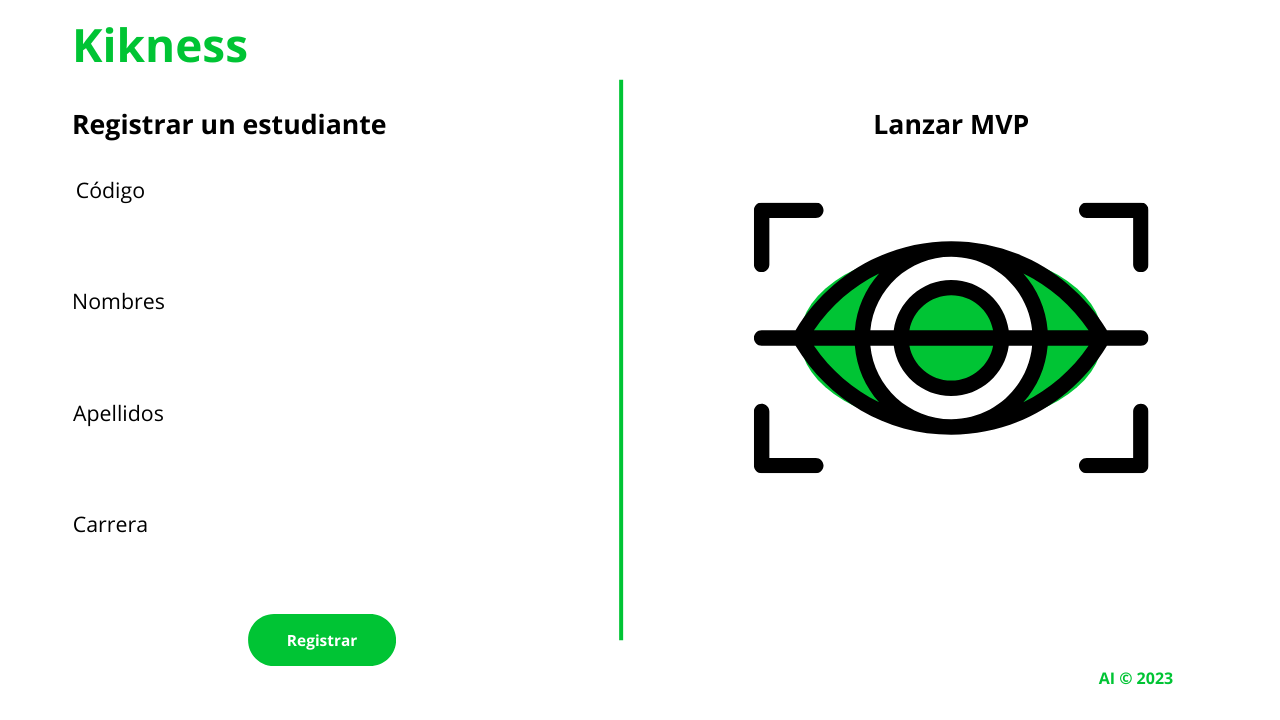
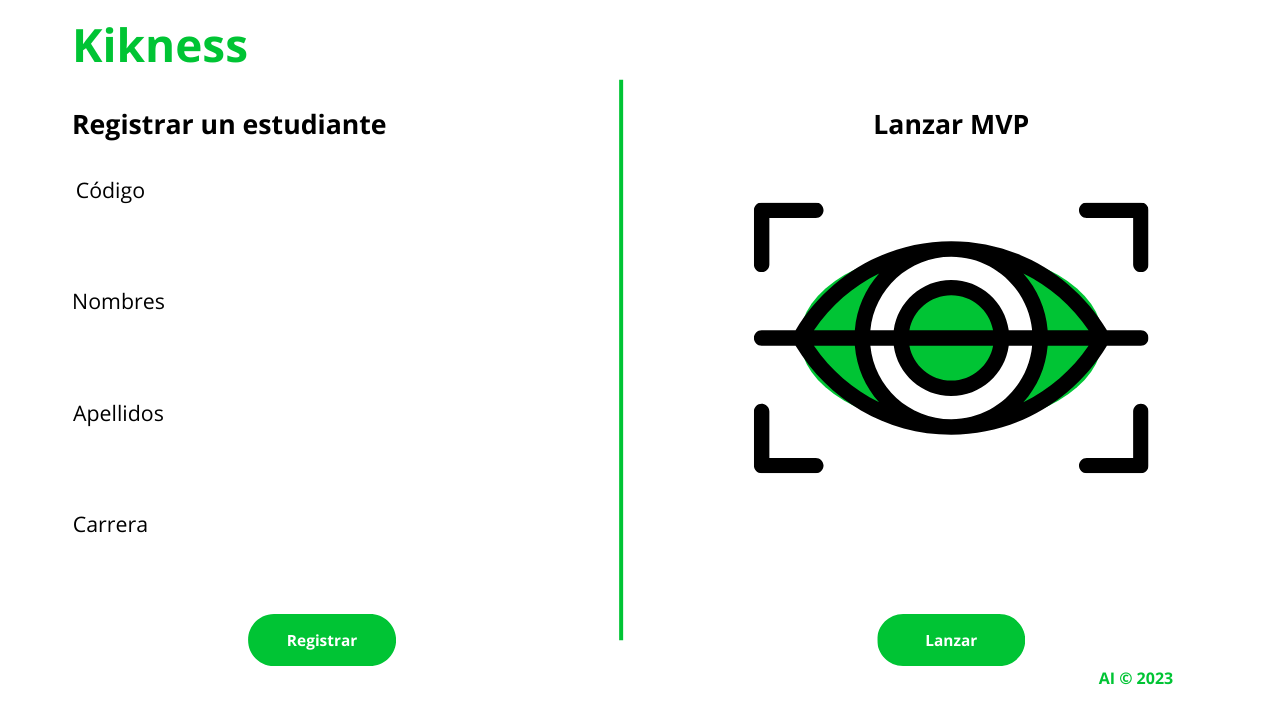
register student complete

Changed region(s): [[0.6875, 0.8556, 0.8125, 0.9472]]

diff --git a/main.py b/main.py
@@ -5,13 +5,273 @@ import mediapipe as mp
 import os
 from dotenv import load_dotenv
 from tkinter import *
+from tkinter import messagebox
 from PIL import Image, ImageTk
 import imutils
 import math
+import re
+
+
+def closeWindow():
+    global step, conteo
+    step = 0
+    conteo = 0
+    pantalla2.destroy()
+
 
 # Funcion LOG
-def Log():
-    print("Hola")
+def createEstudiante():
+    # Agregar un regex para validar el codigo de estudiante
+    global cod_estudiante, nom_estudiante, ape_estudiante, carrera, cap, lblVideo, pantalla2
+    cod_estudiante = input_cod_estudiante_reg.get()
+    nom_estudiante = input_nom_estudiante_reg.get()
+    ape_estudiante = input_ape_estudiante_reg.get()
+    carrera = opcion_seleccionada.get()
+
+    vacio = [len(cod_estudiante), len(nom_estudiante), len(ape_estudiante), len(carrera)]
+
+    if 0 in vacio:
+        messagebox.showinfo("Alerta", "No pueden haber campos vacios")
+        return
+
+    regex = r'^U\d{8}$'
+    match = re.match(regex, cod_estudiante)
+
+    if match is None:
+        messagebox.showinfo("Alerta", "El codigo de estudiante no sigue la nomenclatura UXXXXXXXX")
+        return
+
+    estudiantes_registrados = os.listdir(PATH_USER_CHECK)
+
+    codigos_estudiantes = []
+
+    for estudiante in estudiantes_registrados:
+        estudiante = estudiante.split('.')
+        codigos_estudiantes.append(estudiante[0])  # Guardamos codigo
+
+    # Verificamos registro de estudiante
+    if cod_estudiante in codigos_estudiantes:
+        messagebox.showinfo("Alerta", "El usuario ha sido registrado anteriormente")
+        return
+
+    # Registramos al estudiante
+    info.append(cod_estudiante)
+    info.append(nom_estudiante)
+    info.append(ape_estudiante)
+    info.append(carrera)
+
+    # save, en un futuro manejalo como un json localmente, para la tesis esto ira en bd
+    try:
+        f = open(f"{OUT_FOLDER_PATH_USERS}/{cod_estudiante}.txt", "w")
+        f.write(f"{cod_estudiante},{nom_estudiante},{ape_estudiante},{carrera}")
+        f.close()
+        print("Registro exitoso")
+    except:
+        print("Error en el registro de un estudiante")
+
+    # Limpiar los campos
+    input_cod_estudiante_reg.delete(0, END)
+    input_nom_estudiante_reg.delete(0, END)
+    input_ape_estudiante_reg.delete(0, END)
+    opcion_seleccionada.set("Seleccione la carrera")
+
+    # Se lanza pantalla para registrar un nuevo rostro, en un futuro daremos la opcion de subir la foto directamente
+    pantalla2 = Toplevel(pantalla)
+    pantalla2.title("Kikness | Registro Biometrico")
+    pantalla2.geometry("1280x720")
+    # Creamos el label de video, osea usaremos nuestra camara
+    lblVideo = Label(pantalla2)
+    lblVideo.place(x=0, y=0)
+
+    # videocaptura
+    cap = cv2.VideoCapture(0, cv2.CAP_DSHOW)
+    cap.set(3, 1280)
+    cap.set(4, 720)
+    registroBiometrico()
+
+
+# En esta funcion se registrara todo
+def registroBiometrico():
+    global pantalla2, conteo, parpadeo, img_info, step, cap, lblVideo, cod_estudiante
+
+    if cap is not None:
+        ret, frame = cap.read()
+
+        frame_save = frame.copy()
+
+        # Redimensionar
+        frame = imutils.resize(frame, width=1280)
+
+        # frame rgb
+        frame_rgb = cv2.cvtColor(frame, cv2.COLOR_BGR2RGB)
+
+        # Frame show
+        frame = cv2.cvtColor(frame, cv2.COLOR_BGR2RGB)
+
+        if ret == True:
+            # inferencia de malla facial
+            res = FaceMesh.process(frame_rgb)
+
+            # lista de resultados
+            px = []
+            py = []
+            lista_coordenadas = []
+
+            if res.multi_face_landmarks:
+                # Extraer detecciones de malla facial
+                for rostros in res.multi_face_landmarks:
+                    # dibujamos malla facial
+                    mp_draw.draw_landmarks(frame, rostros, face_mesh_object.FACEMESH_CONTOURS, config_draw,
+                                           config_draw)  # Tambien puede ser FACEMESH_TESSELATION
+
+                    # Extraemos los puntos
+                    for id, puntos in enumerate(rostros.landmark):
+                        # info img
+                        alto, ancho, c = frame.shape
+                        x, y = int(puntos.x * ancho), int(puntos.y * alto)
+                        px.append(x)
+                        py.append(y)
+                        lista_coordenadas.append([id, x, y])
+                        # puntos clave: los de las cejas, los de la cien, asi sabemos si esta mirando de frente o no, me quede en 1:20
+                        # 468 KeyPoints
+                        if len(lista_coordenadas) == 468:
+                            # ojo derecho
+                            x1, y1 = lista_coordenadas[145][1:]
+                            x2, y2 = lista_coordenadas[159][1:]
+                            longitud1 = math.hypot(x2 - x1, y2 - y1)
+
+                            # ojo izq
+                            x3, y3 = lista_coordenadas[374][1:]
+                            x4, y4 = lista_coordenadas[386][1:]
+                            longitud2 = math.hypot(x4 - x3, y4 - y3)
+
+                            # parietal derecho
+                            x5, y5 = lista_coordenadas[139][1:]
+
+                            # parietal izq
+                            x6, y6 = lista_coordenadas[368][1:]
+
+                            # ceja derecha
+                            x7, y7 = lista_coordenadas[70][1:]
+
+                            # ceja izq
+                            x8, y8 = lista_coordenadas[300][1:]
+
+                            # deteccion de rostros
+                            faces = detector.process(frame_rgb)
+
+                            if faces.detections is not None:
+                                for face in faces.detections:
+                                    # Bbox: recuadro del rostros - "ID, BBOX, SCORE
+                                    score = face.score
+                                    score = score[0]
+                                    bbox = face.location_data.relative_bounding_box
+
+                                    # Threshold
+                                    if score > conf_threshold:
+                                        # convertir a pixeles
+                                        xi, yi, anch, alt = bbox.xmin, bbox.ymin, bbox.width, bbox.height
+                                        xi, yi, anch, alt = int(xi * ancho), int(yi * alto), int(anch * ancho), int(
+                                            alt * alto)
+
+                                        # Offset X
+                                        offset_anch = (offset_x / 100) * anch
+                                        xi = int(xi - int(offset_anch / 2))
+                                        anch = int(anch + offset_anch)
+                                        xf = xi + anch
+
+                                        # Offset Y
+                                        offset_alt = (offset_y / 100) * alt
+                                        yi = int(yi - offset_alt)
+                                        alt = int(alt + offset_alt)
+                                        yf = yi + alt
+
+                                        # Control de error sin rostros
+                                        if xi < 0: xi = 0
+                                        if yi < 0: yi = 0
+                                        if anch < 0: anch = 0
+                                        if alt < 0: alt = 0
+
+                                        # Steps - pasos de verificacion
+                                        if step == 0:
+                                            # Draw
+                                            cv2.rectangle(frame, (xi, yi, anch, alt), (255, 0, 255),
+                                                          2)  # Color del rectangulo
+
+                                            # img step 0
+                                            als0, ans0, c = img_step0.shape
+                                            frame[50:50 + als0, 50:50 + ans0] = img_step0
+                                            # img step 1
+                                            als1, ans1, c = img_step1.shape
+                                            frame[50:50 + als1, 1030:1030 + ans1] = img_step1
+                                            # img step 3
+                                            als2, ans2, c = img_step2.shape
+                                            frame[270:270 + als2, 1030:1030 + ans2] = img_step2
+
+                                            # Aca verificamos que este mirando a la camara
+                                            if x7 > x5 and x8 < x6:  # Estamos mirando hacia el frente
+                                                # img check
+                                                alcheck, ancheck, c = img_check.shape
+                                                frame[165:165 + alcheck, 1105:1105 + ancheck] = img_check
+
+                                                # conteo de parpadeos
+                                                if longitud1 <= 10 and longitud2 <= 10 and parpadeo == False:
+                                                    conteo = conteo + 1
+                                                    parpadeo = True
+                                                elif longitud1 > 10 and longitud2 > 10 and parpadeo == True:
+                                                    parpadeo = False
+
+                                                cv2.putText(frame, f'Parpadeos: {int(conteo)}', (1070, 375),
+                                                            cv2.FONT_HERSHEY_COMPLEX, 0.5, (255, 255, 255), 1)
+
+                                                if conteo >= 3:
+                                                    alcheck, ancheck, c = img_check.shape
+                                                    frame[385:385 + alcheck, 1105:1105 + ancheck] = img_check
+
+                                                    # Open Eyes
+                                                    if longitud1 > 15 and longitud2 > 15:
+                                                        # cut
+                                                        cut = frame_save[yi:yf, xi:xf]
+                                                        # guardamos el rostro
+                                                        cv2.imwrite(f"{OUT_FOLDER_PATH_FACES}/{cod_estudiante}.png",
+                                                                    cut)
+
+                                                        # step 1
+                                                        step = 1
+                                            else:
+                                                conteo = 0
+
+                                        # paso 1
+                                        if step == 1:
+                                            cv2.rectangle(frame, (xi, yi, anch, alt), (0, 255, 0),
+                                                          2)  # Color del rectangulo
+                                            # img check liveness
+                                            alli, anli, c = img_livenesscheck.shape
+                                            frame[50:50 + alli, 50:50 + anli] = img_livenesscheck
+
+                                    close = pantalla2.protocol("WM_DELETE_WINDOW", closeWindow)
+
+                                    # Circle - Solo es de prueba
+                            # cv2.circle(frame, (x1, y1), 2, (255, 0, 0), cv2.FILLED)
+                            # cv2.circle(frame, (x2, y2), 2, (255, 0, 0), cv2.FILLED)
+
+        # Convertir el video
+        im = Image.fromarray(frame)
+        img = ImageTk.PhotoImage(image=im)
+
+        # Mostrar el video
+        lblVideo.configure(image=img)
+        lblVideo.image = img
+        lblVideo.after(5, registroBiometrico)
+    else:
+        cap.release()
+
+
+# Funcion MVP
+def lanzarMVP():
+    global OUT_FOLDER_PATH_FACES, cap, lblVideo, pantalla3, face_code, clases, images
+
+
 
 # Nuesto sistema tendra codEstudiante, nombreEstudiante, carrera
 
@@ -22,6 +282,38 @@ OUT_FOLDER_PATH_USERS = os.getenv("PATH_USERS")
 PATH_USER_CHECK = os.getenv("PATH_USERS_CHECK")
 OUT_FOLDER_PATH_FACES = os.getenv("PATH_FACES")
 
+# Read Img
+img_check = cv2.imread('C:/Users/willi/Desktop/IA_Project_Autenticacion/assets/check.png')
+img_step0 = cv2.imread('C:/Users/willi/Desktop/IA_Project_Autenticacion/assets/Step0.png')
+img_step1 = cv2.imread('C:/Users/willi/Desktop/IA_Project_Autenticacion/assets/Step1.png')
+img_step2 = cv2.imread('C:/Users/willi/Desktop/IA_Project_Autenticacion/assets/Step2.png')
+img_livenesscheck = cv2.imread('C:/Users/willi/Desktop/IA_Project_Autenticacion/assets/LivenessCheck.png')
+
+# Variables
+parpadeo = False
+conteo = 0
+muestra = 0
+step = 0
+
+# Offset
+offset_y = 40
+offset_x = 20
+
+# Threshold -> umbral de confianza de deteccion
+conf_threshold = 0.5
+
+# tool draw -> malla facial
+mp_draw = mp.solutions.drawing_utils
+config_draw = mp_draw.DrawingSpec(thickness=1, circle_radius=1)
+
+# Object de malla facial
+face_mesh_object = mp.solutions.face_mesh
+FaceMesh = face_mesh_object.FaceMesh(max_num_faces=1)  # Aca se determina cuantos rostros observara mediapipe
+
+# Object de detector de rostros
+face_object = mp.solutions.face_detection
+detector = face_object.FaceDetection(min_detection_confidence=0.5, model_selection=1)  # umbral de deteccion
+
 # Para manejar info, hacerlo en funciones
 info = []
 
@@ -30,6 +322,7 @@ pantalla = Tk()
 pantalla.title("Kikness | MVP")  # Kinesis
 pantalla.configure(bg="white")
 pantalla.geometry("1280x720")
+pantalla.resizable(False, False)
 
 # Background
 img_background = PhotoImage(file=os.getenv("PATH_BACKGROUND"))
@@ -50,8 +343,8 @@ input_ape_estudiante_reg = Entry(pantalla)
 input_ape_estudiante_reg.place(x=80, y=440)
 
 # carreraEstudiante
-opcion_seleccionada = StringVar() # Obtener el valor en string
-opciones = ["","Ing. Software", "Ing. Industrial", "Ing. Civil", "Administración"]
+opcion_seleccionada = StringVar()  # Obtener el valor en string
+opciones = ["", "Ing. Software", "Ing. Industrial", "Ing. Civil", "Administración"]
 opcion_seleccionada.set("Seleccione la carrera")
 select = OptionMenu(pantalla, opcion_seleccionada, *opciones)
 select.pack()
@@ -59,10 +352,19 @@ select.place(x=80, y=550)
 
 # btn de registrar
 img_register = PhotoImage(file=os.getenv("PATH_BTN_REGISTER"))
-btn_register = Button(pantalla, image=img_register, compound="top", command=Log, highlightthickness=0, bd=0, bg="white")
+btn_register = Button(pantalla, image=img_register, compound="top", command=createEstudiante, highlightthickness=0,
+                      bd=0, bg="white")
 btn_register.place(x=248, y=613)
 
-'''[
+# btn para lanzar MVP
+img_mvp = PhotoImage(file=os.getenv("PATH_BTN_MVP"))
+btn_mvp = Button(pantalla, image=img_mvp, compound="top", command=lanzarMVP, highlightthickness=0, bd=0, bg="white")
+btn_mvp.place(x=877, y=613)
+
+'''
+Arreglo que contiene otros JSON
+
+[
 {
 codEstudiante: u19201322,
 nomEstudiante: William Elisban,
@@ -70,7 +372,6 @@ apeEstudiante: Chávez Díaz,
 carrera: Ing. Software
 }
 ]'''
-
 
 # Se lanza la pantalla
 pantalla.mainloop()
